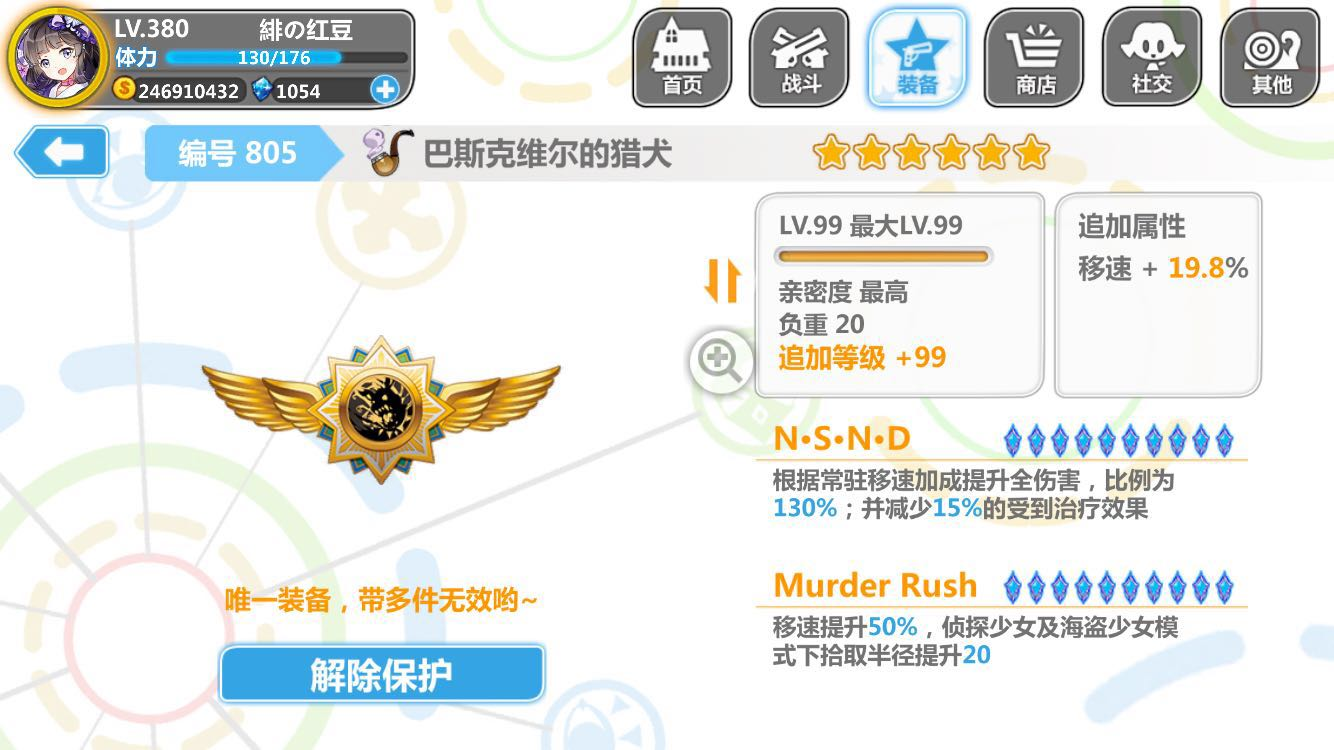
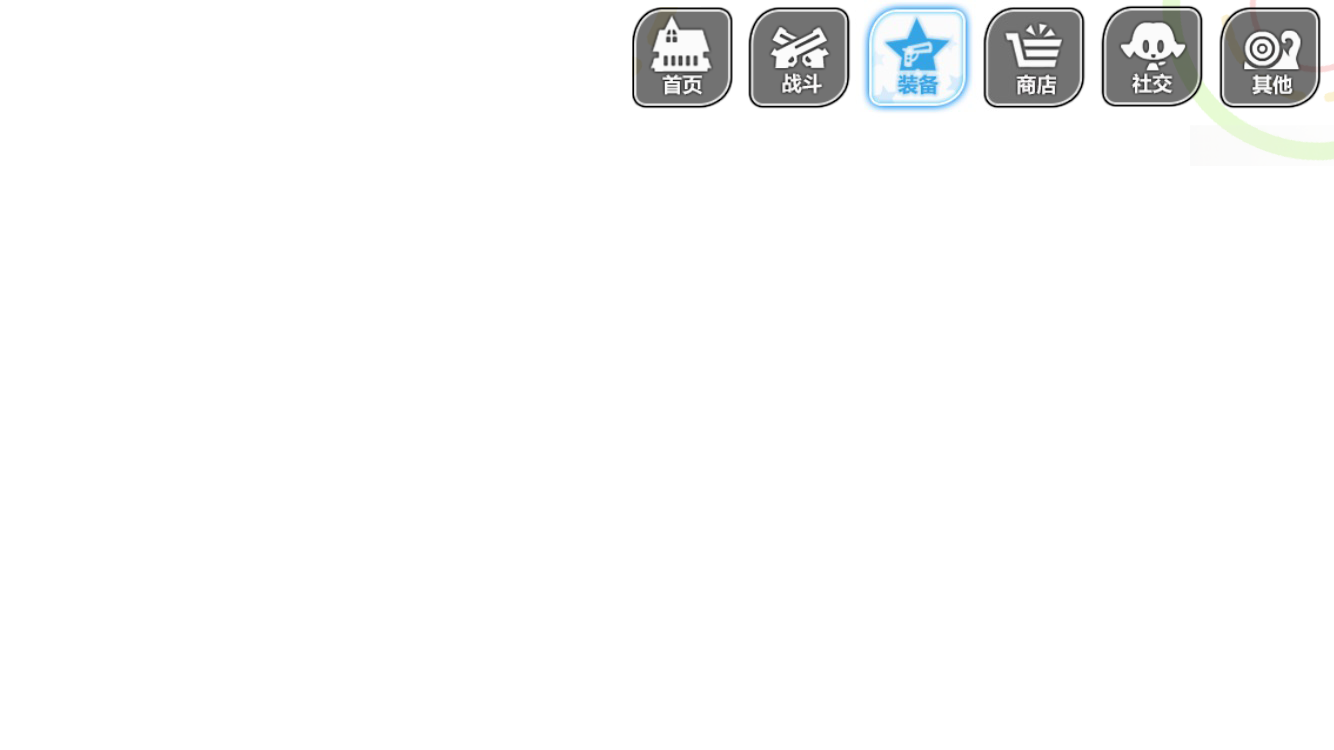
animation complete

diff --git a/up-list/public/stylesheets/animation.css b/up-list/public/stylesheets/animation.css
@@ -1,0 +1,60 @@
+@keyframes rotate {
+  0%, 100% {
+    transform: rotate(0deg);
+  }
+  100% {
+    transform: rotate(360deg);
+  }
+}
+
+@-webkit-keyframes rotate {
+  0%, 100% {
+    -webkit-transform: rotate(0deg);
+  }
+  100% {
+    -webkit-transform: rotate(360deg);
+  }
+}
+
+@-moz-keyframes rotate {
+  0%, 100% {
+    -moz-transform: rotate(0deg);
+  }
+  100% {
+    -moz-transform: rotate(360deg);
+  }
+}
+
+@-o-keyframes rotate {
+  0%, 100% {
+    -o-transform: rotate(0deg);
+  }
+  100% {
+    -o-transform: rotate(360deg);
+  }
+}
+
+@-ms-keyframes rotate {
+  0%, 100% {
+    -ms-transform: rotate(0deg);
+  }
+  100% {
+    -ms-transform: rotate(360deg);
+  }
+}
+
+.fast-rotate {
+  animation: rotate 32s linear infinite;
+  -webkit-animation: rotate 32s linear infinite;
+  -moz-animation: rotate 32s linear infinite;
+  -o-animation: rotate 32s linear infinite;
+  -ms-animation: rotate 32s linear infinite;
+}
+
+.slow-rotate {
+  animation: rotate 200s linear infinite;
+  -webkit-animation: rotate 200s linear infinite;
+  -moz-animation: rotate 200s linear infinite;
+  -o-animation: rotate 200s linear infinite;
+  -ms-animation: rotate 200s linear infinite;
+}

diff --git a/up-list/public/stylesheets/equip.css b/up-list/public/stylesheets/equip.css
@@ -59,14 +59,48 @@ img {
   background-image: url('/images/equip-background.png');
   background-size: 1024px 576px;
   font-weight: bold;
+  position: absolute;
+  overflow: hidden;
 }
+#equip-main > div {
+  position: relative;
+  z-index: 5;
+}
+#background-container img {
+  position: absolute;
+  z-index: 1;
+}
+#mid-top {
+  height: 198px;
+  left: 329px;
+  top: -117px;
+}
+#left-bottom {
+  height: 1090px;
+  left: -429px;
+  top: -54px;
+  z-index: 4;
+}
+#right-top {
+  height: 287px;
+  right: 88px;
+  top: 118px;
+}
+#right-bottom {
+  height: 500px;
+  right: -218px;
+  top: 476px;
+}
+
 #top-banner { height: 90px; }
 
 #user-banner {
   color: white;
   height: 90px;
+  width: 400px;
   background: url('/images/user-bar.png') no-repeat;
   background-size: 320px 94px;
+  display: inline-block;
 }
 #user-banner > div {
   display: inline-block;
@@ -99,6 +133,12 @@ img {
   width: 80px;
 }
 #user-crystal { margin-left: 26px; }
+
+#system-banner {
+  float: right;
+  height: 0;
+}
+#system-banner img { height: 136.6px; }
 
 #equip-banner {
   height: 50px;
